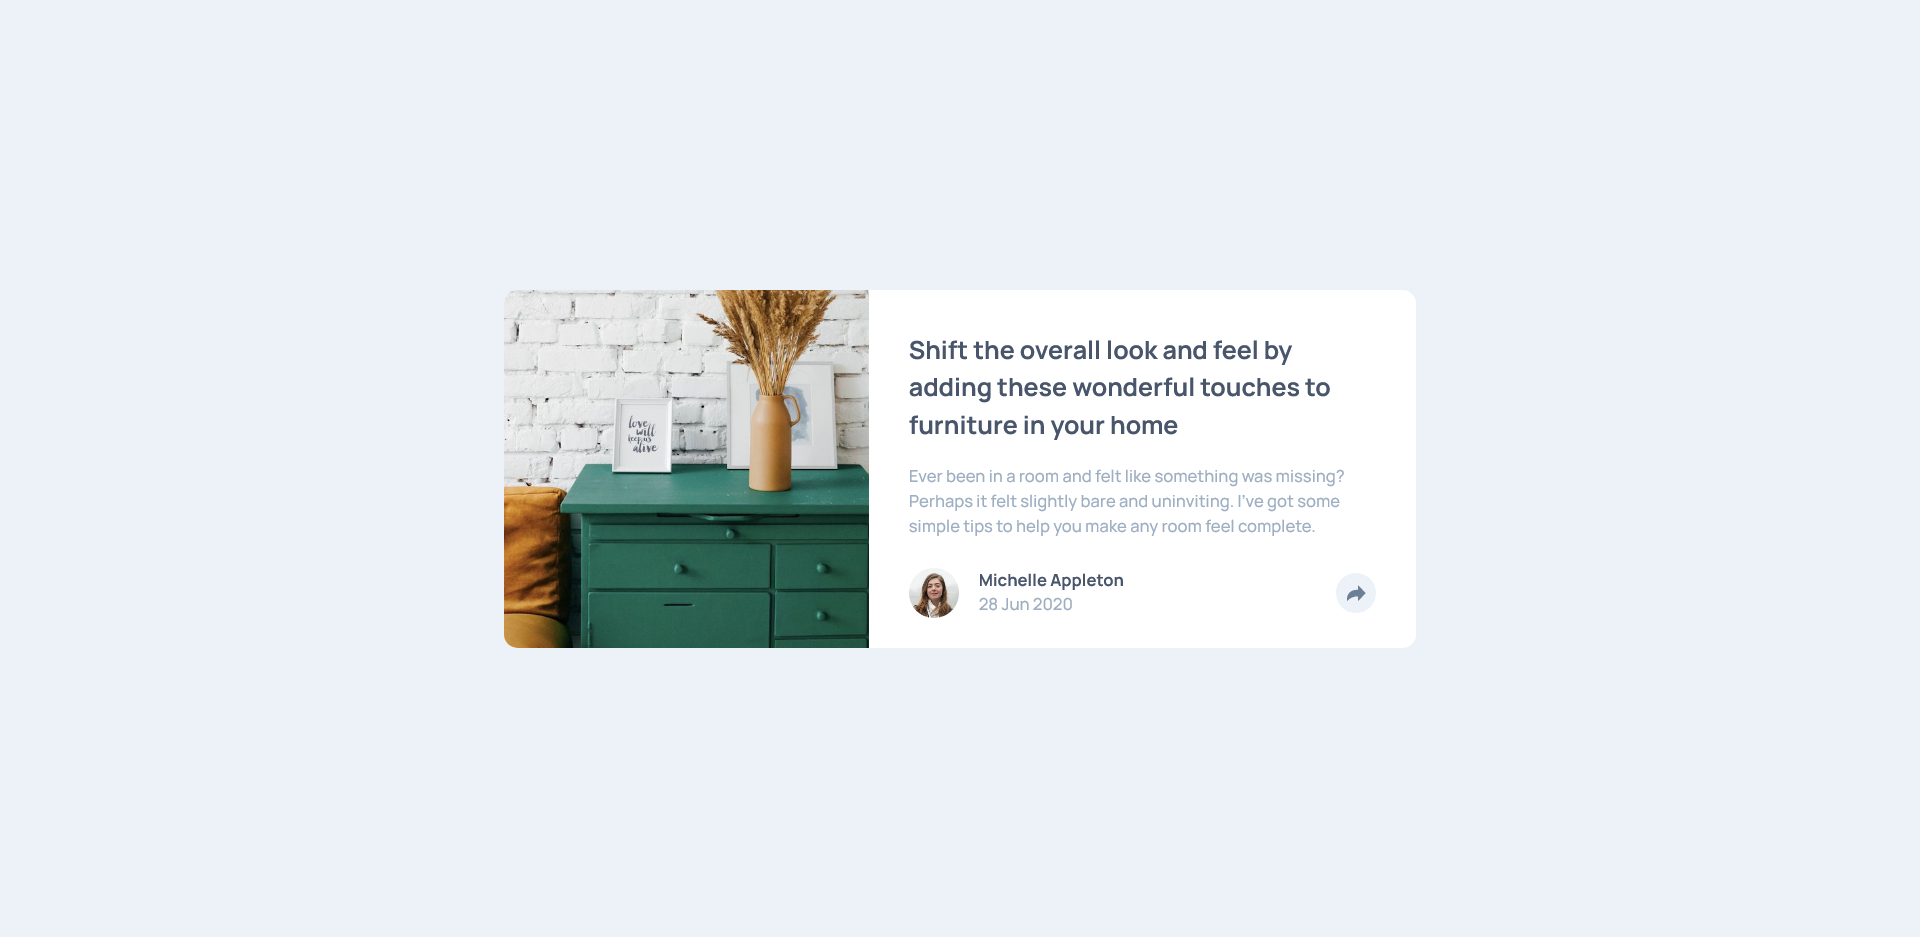
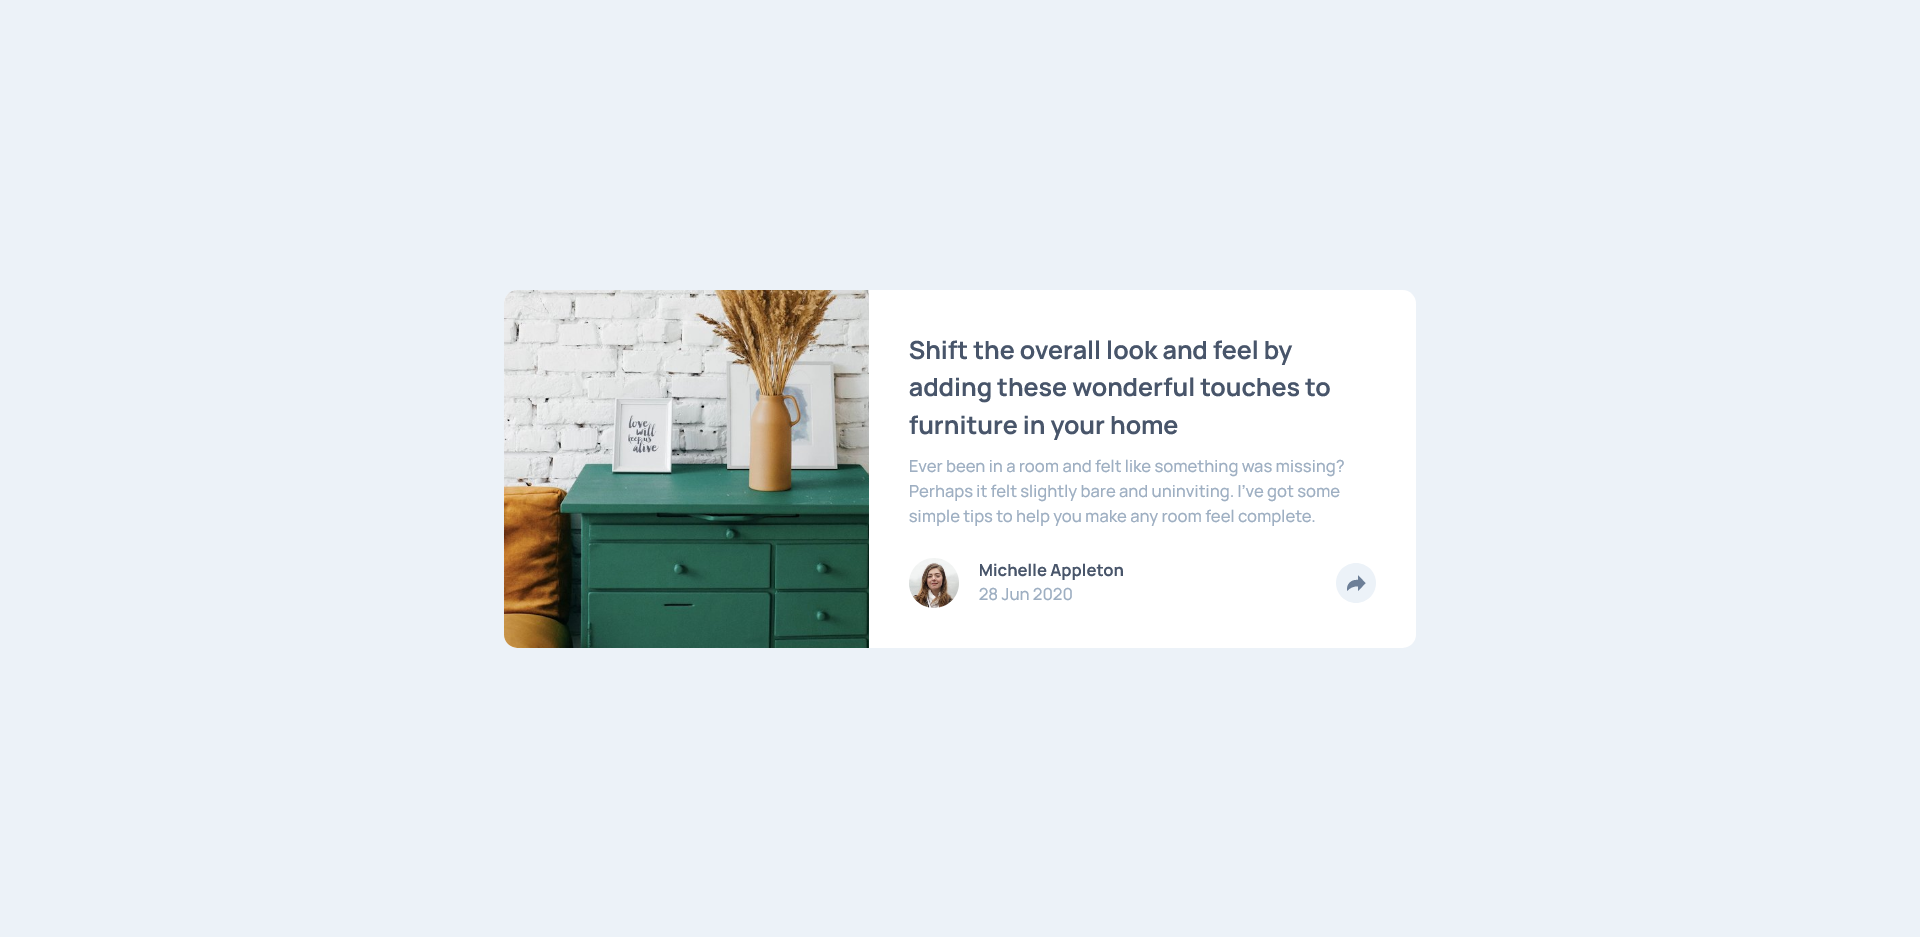
small update

Changed region(s): [[0.4688, 0.4952, 0.7188, 0.6809], [0.6875, 0.619, 0.7188, 0.6499]]

diff --git a/stylesheets/main.css b/stylesheets/main.css
@@ -1,1 +1,1 @@
-@import"https://fonts.googleapis.com/css2?family=Manrope:wght@500;700&display=swap";html,body,div,span,applet,object,iframe,h1,h2,h3,h4,h5,h6,p,blockquote,pre,a,abbr,acronym,address,big,cite,code,del,dfn,em,img,ins,kbd,q,s,samp,small,strike,strong,sub,sup,tt,var,b,u,i,center,dl,dt,dd,ol,ul,li,fieldset,form,label,legend,table,caption,tbody,tfoot,thead,tr,th,td,article,aside,canvas,details,embed,figure,figcaption,footer,header,hgroup,menu,nav,output,ruby,section,summary,time,mark,audio,video{margin:0;padding:0;border:0;font-size:100%;font:inherit;vertical-align:baseline}article,aside,details,figcaption,figure,footer,header,hgroup,menu,nav,section{display:block}body{line-height:1}ol,ul{list-style:none}blockquote,q{quotes:none}blockquote:before,blockquote:after,q:before,q:after{content:"";content:none}table{border-collapse:collapse;border-spacing:0}button{all:unset;cursor:pointer}body{color:#6d7f97;font-size:13;line-height:normal;letter-spacing:normal;font-family:"Manrope",sans-serif}body{background:#ecf2f8;display:flex;align-items:center;justify-content:center;min-height:100vh}.article-preview{background:#fff;margin:1.5rem;border-radius:.67rem}.article-preview h3{font-size:1rem;line-height:1.5rem;letter-spacing:normal;font-weight:700;color:#48556a}.article-preview h4{font-size:.83rem;line-height:normal;letter-spacing:normal;font-weight:700;color:#48556a}.article-preview p{font-size:.83rem;line-height:1.25rem;letter-spacing:normal;color:#9eafc2}.article-preview .toggle-view-btn{width:32px;height:32px;display:flex;align-items:center;justify-content:center;border-radius:100%;background:#ecf2f8;transition:background .3s}.article-preview .toggle-view-btn svg path{transition:fill .3s;fill:#6d7f97}.article-preview .toggle-view-btn:hover,.article-preview .toggle-view-btn:active,.article-preview .toggle-view-btn:focus{background:#ff941a}.article-preview .toggle-view-btn:hover svg path,.article-preview .toggle-view-btn:active svg path,.article-preview .toggle-view-btn:focus svg path{fill:#fff}.article-preview .toggle-view-btn--active{background:#6d7f97}.article-preview .toggle-view-btn--active svg path{fill:#fff}.article-preview .toggle-view-btn--active:hover,.article-preview .toggle-view-btn--active:active,.article-preview .toggle-view-btn--active:focus{background:#ff941a}.article-preview .toggle-view-btn--active:hover svg path,.article-preview .toggle-view-btn--active:active svg path,.article-preview .toggle-view-btn--active:focus svg path{fill:#48556a}.article-preview__img{width:100%;height:218px;object-fit:cover;object-position:top;border-radius:.67rem .67rem 0 0}.article-preview__description{padding:2rem 2rem 1rem 2rem}.article-preview__description p{margin-top:1rem}.author-container{position:relative}.author-info{padding:1rem 2rem 1rem 2rem;height:40px;display:flex;align-items:center;justify-content:space-between;opacity:1;transition:opacity 500ms}.author-info.inactive-step-1{opacity:0}.author-info.inactive-step-2{display:none}.author-info__content{display:flex}.author-info__content img{width:40px;height:40px;border-radius:100%}.author-info__texts{margin-left:1rem;margin-right:1rem}.sharing-bar{background:#48556a;padding:1rem 2rem 1rem 2rem;height:40px;border-radius:0 0 .67rem .67rem;display:flex;align-items:center;justify-content:center;justify-content:space-between;display:none;opacity:0;transition:opacity 500ms}.sharing-bar.active-step-1{display:flex}.sharing-bar.active-step-2{opacity:1}.sharing-bar__content{display:flex;align-items:center}.sharing-bar__content h4{display:none;letter-spacing:.3rem;color:#9eafc2}.sharing-bar__content button{margin-left:1rem;display:flex;align-items:center;justify-content:center}.sharing-bar__content button svg path{transition:fill .3s;fill:#fff}.sharing-bar__content button:hover svg path,.sharing-bar__content button:active svg path,.sharing-bar__content button:focus svg path{fill:#ff941a}@media only screen and (min-width: 340px){.sharing-bar__content h4{display:block}}@media only screen and (min-width: 576px){.article-preview{display:grid;grid-template-columns:40% 60%;max-width:730px;margin:6rem}.article-preview h3{font-size:1.25rem;line-height:1.875rem;letter-spacing:normal}.article-preview__img{width:100%;height:100%;object-fit:cover;object-position:left;border-radius:.67rem 0 0 .67rem}.author-info{padding:.5rem 2rem 1.5rem 2rem}.author-info.inactive-step-1,.author-info.inactive-step-2{opacity:unset;display:flex}.author-info.inactive-step-1 .toggle-view-btn,.author-info.inactive-step-2 .toggle-view-btn{background:#6d7f97}.author-info.inactive-step-1 .toggle-view-btn svg path,.author-info.inactive-step-2 .toggle-view-btn svg path{fill:#fff}.author-info.inactive-step-1 .toggle-view-btn:hover,.author-info.inactive-step-1 .toggle-view-btn:active,.author-info.inactive-step-1 .toggle-view-btn:focus,.author-info.inactive-step-2 .toggle-view-btn:hover,.author-info.inactive-step-2 .toggle-view-btn:active,.author-info.inactive-step-2 .toggle-view-btn:focus{background:#ff941a}.author-info.inactive-step-1 .toggle-view-btn:hover svg path,.author-info.inactive-step-1 .toggle-view-btn:active svg path,.author-info.inactive-step-1 .toggle-view-btn:focus svg path,.author-info.inactive-step-2 .toggle-view-btn:hover svg path,.author-info.inactive-step-2 .toggle-view-btn:active svg path,.author-info.inactive-step-2 .toggle-view-btn:focus svg path{fill:#6d7f97}.sharing-bar{position:absolute;bottom:6rem;right:-4.4rem;padding:.5rem 2rem;border-radius:.67rem;display:flex;visibility:hidden;opacity:0;transition:visibility 1s,opacity 1s}.sharing-bar.active-step-1,.sharing-bar.active-step-2{visibility:visible;opacity:1;transition:visibility 1s,opacity 1s}.sharing-bar .toggle-view-btn{display:none}.sharing-bar:after{content:"";position:absolute;top:100%;left:50%;transform:translateX(-50%);width:0;height:0;border-top:solid 12px #48556a;border-left:solid 12px transparent;border-right:solid 12px transparent}}/*# sourceMappingURL=main.css.map */
+@import"https://fonts.googleapis.com/css2?family=Manrope:wght@500;700&display=swap";html,body,div,span,applet,object,iframe,h1,h2,h3,h4,h5,h6,p,blockquote,pre,a,abbr,acronym,address,big,cite,code,del,dfn,em,img,ins,kbd,q,s,samp,small,strike,strong,sub,sup,tt,var,b,u,i,center,dl,dt,dd,ol,ul,li,fieldset,form,label,legend,table,caption,tbody,tfoot,thead,tr,th,td,article,aside,canvas,details,embed,figure,figcaption,footer,header,hgroup,menu,nav,output,ruby,section,summary,time,mark,audio,video{margin:0;padding:0;border:0;font-size:100%;font:inherit;vertical-align:baseline}article,aside,details,figcaption,figure,footer,header,hgroup,menu,nav,section{display:block}body{line-height:1}ol,ul{list-style:none}blockquote,q{quotes:none}blockquote:before,blockquote:after,q:before,q:after{content:"";content:none}table{border-collapse:collapse;border-spacing:0}button{all:unset;cursor:pointer}body{font-family:"Manrope",sans-serif}body{background:#ecf2f8;display:flex;align-items:center;justify-content:center;min-height:100vh}.article-preview{background:#fff;margin:1.5rem;border-radius:.67rem}.article-preview h3{font-size:1rem;line-height:1.5rem;letter-spacing:normal;font-weight:700;color:#48556a}.article-preview h4{font-size:.83rem;line-height:normal;letter-spacing:normal;font-weight:700;color:#48556a}.article-preview p{font-size:.83rem;line-height:1.25rem;letter-spacing:normal;color:#9eafc2}.article-preview .toggle-view-btn{width:32px;height:32px;display:flex;align-items:center;justify-content:center;border-radius:100%;background:#ecf2f8;transition:background .3s}.article-preview .toggle-view-btn svg path{transition:fill .3s;fill:#6d7f97}.article-preview .toggle-view-btn:hover,.article-preview .toggle-view-btn:active,.article-preview .toggle-view-btn:focus{background:#ff941a}.article-preview .toggle-view-btn:hover svg path,.article-preview .toggle-view-btn:active svg path,.article-preview .toggle-view-btn:focus svg path{fill:#fff}.article-preview .toggle-view-btn--active{background:#6d7f97}.article-preview .toggle-view-btn--active svg path{fill:#fff}.article-preview .toggle-view-btn--active:hover,.article-preview .toggle-view-btn--active:active,.article-preview .toggle-view-btn--active:focus{background:#ff941a}.article-preview .toggle-view-btn--active:hover svg path,.article-preview .toggle-view-btn--active:active svg path,.article-preview .toggle-view-btn--active:focus svg path{fill:#48556a}.article-preview__img{width:100%;height:218px;object-fit:cover;object-position:top;border-radius:.67rem .67rem 0 0}.article-preview__description{padding:2rem 2rem 1rem 2rem}.article-preview__description p{margin-top:1rem}.author-container{position:relative}.author-info{padding:1rem 2rem 1rem 2rem;height:40px;display:flex;align-items:center;justify-content:space-between;opacity:1;transition:opacity 500ms}.author-info.inactive-step-1{opacity:0}.author-info.inactive-step-2{display:none}.author-info__content{display:flex}.author-info__content img{width:40px;height:40px;border-radius:100%}.author-info__texts{margin-left:1rem;margin-right:1rem}.sharing-bar{background:#48556a;padding:1rem 2rem 1rem 2rem;height:40px;border-radius:0 0 .67rem .67rem;display:flex;align-items:center;justify-content:center;justify-content:space-between;display:none;opacity:0;transition:opacity 500ms}.sharing-bar.active-step-1{display:flex}.sharing-bar.active-step-2{opacity:1}.sharing-bar__content{display:flex;align-items:center}.sharing-bar__content h4{display:none;letter-spacing:.3rem;color:#9eafc2}.sharing-bar__content button{margin-left:1rem;display:flex;align-items:center;justify-content:center}.sharing-bar__content button svg path{transition:fill .3s;fill:#fff}.sharing-bar__content button:hover svg path,.sharing-bar__content button:active svg path,.sharing-bar__content button:focus svg path{fill:#ff941a}@media only screen and (min-width: 340px){.sharing-bar__content h4{display:block}}@media only screen and (min-width: 576px){.article-preview{display:grid;grid-template-columns:40% 60%;max-width:730px;margin:6rem}.article-preview h3{font-size:1.25rem;line-height:1.875rem;letter-spacing:normal}.article-preview__img{width:100%;height:100%;object-fit:cover;object-position:left;border-radius:.67rem 0 0 .67rem}.article-preview__description p{margin-top:.5rem}.author-info{padding:.5rem 2rem 2rem 2rem}.author-info.inactive-step-1,.author-info.inactive-step-2{opacity:unset;display:flex}.author-info.inactive-step-1 .toggle-view-btn,.author-info.inactive-step-2 .toggle-view-btn{background:#6d7f97}.author-info.inactive-step-1 .toggle-view-btn svg path,.author-info.inactive-step-2 .toggle-view-btn svg path{fill:#fff}.author-info.inactive-step-1 .toggle-view-btn:hover,.author-info.inactive-step-1 .toggle-view-btn:active,.author-info.inactive-step-1 .toggle-view-btn:focus,.author-info.inactive-step-2 .toggle-view-btn:hover,.author-info.inactive-step-2 .toggle-view-btn:active,.author-info.inactive-step-2 .toggle-view-btn:focus{background:#ff941a}.author-info.inactive-step-1 .toggle-view-btn:hover svg path,.author-info.inactive-step-1 .toggle-view-btn:active svg path,.author-info.inactive-step-1 .toggle-view-btn:focus svg path,.author-info.inactive-step-2 .toggle-view-btn:hover svg path,.author-info.inactive-step-2 .toggle-view-btn:active svg path,.author-info.inactive-step-2 .toggle-view-btn:focus svg path{fill:#6d7f97}.sharing-bar{position:absolute;bottom:6rem;right:-4.4rem;padding:.5rem 2rem;border-radius:.67rem;display:flex;visibility:hidden;opacity:0;transition:visibility 1s,opacity 1s}.sharing-bar.active-step-1,.sharing-bar.active-step-2{visibility:visible;opacity:1;transition:visibility 1s,opacity 1s}.sharing-bar .toggle-view-btn{display:none}.sharing-bar:after{content:"";position:absolute;top:100%;left:50%;transform:translateX(-50%);width:0;height:0;border-top:solid 12px #48556a;border-left:solid 12px transparent;border-right:solid 12px transparent}}/*# sourceMappingURL=main.css.map */

diff --git a/stylesheets/components/_article-preview.scss b/stylesheets/components/_article-preview.scss
@@ -184,9 +184,13 @@ body {
       object-position: left;
       border-radius: $br-base 0 0 $br-base;
     }
+
+    &__description p {
+      margin-top: $mp-sm;
+    }
   }
   .author-info {
-    padding: $mp-sm $mp-xl $mp-lg $mp-xl;
+    padding: $mp-sm $mp-xl $mp-xl $mp-xl;
 
     &.inactive-step-1, &.inactive-step-2 {
       opacity: unset;

diff --git a/stylesheets/base/_typography.scss b/stylesheets/base/_typography.scss
@@ -4,7 +4,5 @@
 @import url('https://fonts.googleapis.com/css2?family=Manrope:wght@500;700&display=swap');
 
 body {
-  color: $desaturated-dark-blue;
-  @include font-size(13);
   font-family: 'Manrope', sans-serif;
 }
